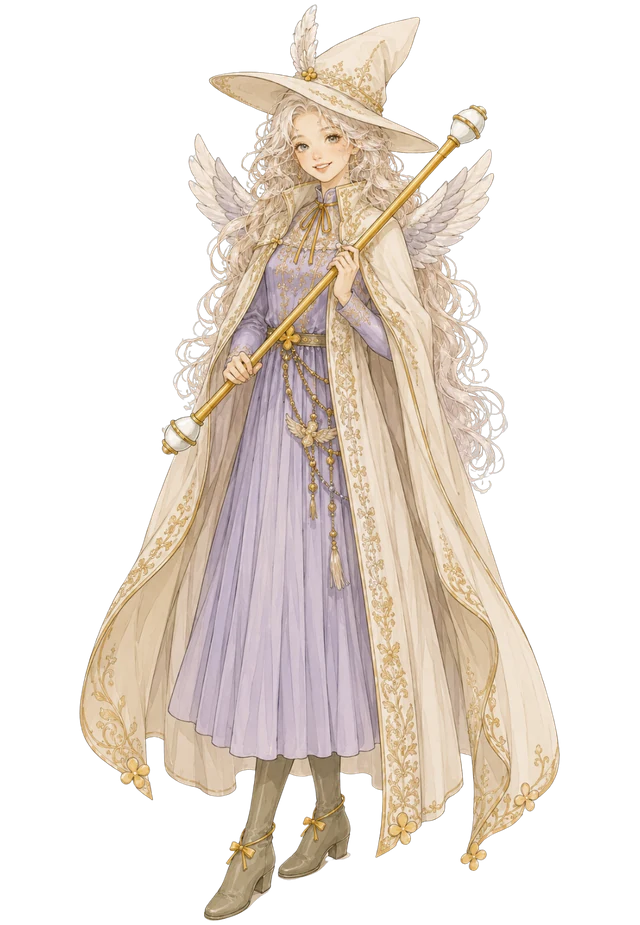
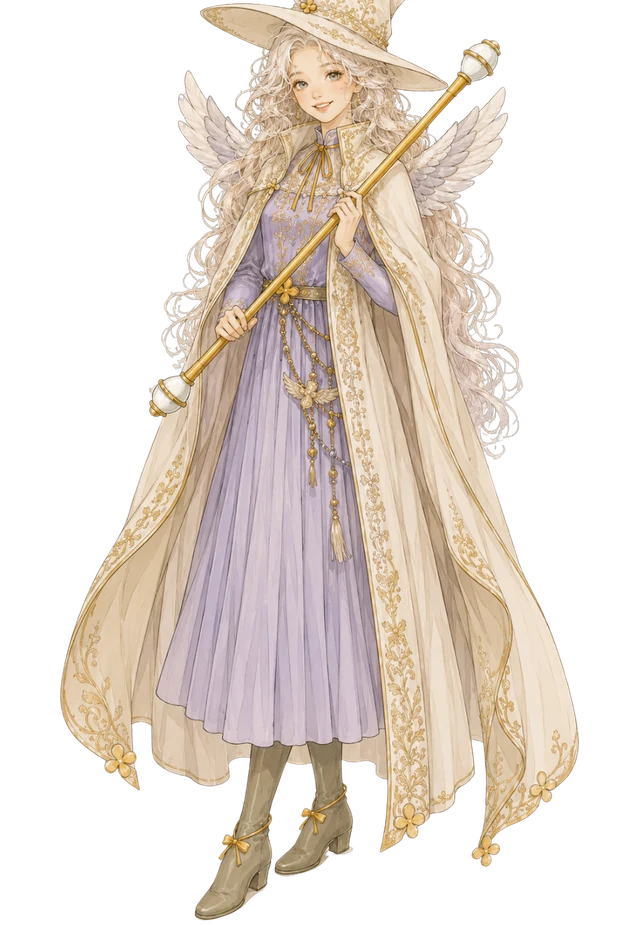
関係性カード全体をリンク化・会員登録の紹介導線削除・白い魔法使いの全身像を拡大 (#115)
* KINの関係性のカード全体をリンクにする

「詳しく見る」だけでなく、カードのどこを押しても紋章の詳細ページへ遷移するようにした。
リンクの中にリンクは置けないので、「詳しく見る」は見た目だけのspanにしている。

Claude-Session: https://claude.ai/code/session_01SHntxLNafWrjFyzX594gth

* 会員登録ページから紹介コード付き登録への導線を削除

/signup の「紹介コードをお持ちの方はこちらから登録」を削除した。/plans の同じ導線は
削除済みなので、/signup/referral へはURLを直接案内する運用になる。

Claude-Session: https://claude.ai/code/session_01SHntxLNafWrjFyzX594gth

* 白い魔法使い(女性)の全身像を1.08倍にして顔の高さを他と揃える

全身像は「帽子の先からつま先まで」を全員同じ高さに揃えているため、つば広帽子・翼・長い裾を
持つ白い魔法使い(女性)は顔が小さく低く見えていた(顔の位置が他より約18px下)。
生成スクリプトに紋章ごとの拡大設定(CUTOUT_ZOOM)を追加し、足元を動かさずに人物を拡大して
上側を切る。更新される画像は seal-13-cutout.webp の1枚だけで、他の79枚は内容が変わらない。

Claude-Session: https://claude.ai/code/session_01SHntxLNafWrjFyzX594gth

---------

diff --git a/pages/result.vue b/pages/result.vue
@@ -489,18 +489,23 @@ async function shareResult() {
       <section id="relations" class="section">
         <SectionDivider label="KINの関係性" eyebrow="周囲の紋章とのつながり" />
         <div class="relwrap">
-          <div v-for="r in relations" :key="r.label" class="relcard" :class="`relcard--${sealColor(r.seal.index)}`">
+          <!-- カード全体をリンクにする(「詳しく見る」だけでなくどこを押しても遷移する)。
+               「詳しく見る」はリンクの中に入れ子にできないので、見た目だけのspanにしている。 -->
+          <NuxtLink
+            v-for="r in relations"
+            :key="r.label"
+            :to="{ path: `/kin/${r.seal.index}`, query: { label: r.label, from: result.kin, name: result.name, birth: input.birthdate, gender: result.gender } }"
+            class="relcard relcard--link"
+            :class="`relcard--${sealColor(r.seal.index)}`"
+          >
             <div class="relcard__figure"><MayaBust :seal-index="r.seal.index" :alt="r.seal.name" :gender="result.gender" /></div>
             <div class="relcard__body">
               <span class="relcard__label">{{ r.label }}</span>
               <h3 class="font-display relcard__name">{{ r.seal.name }}</h3>
               <p class="relcard__desc">{{ RELATION_DESCRIPTION[r.label] }}</p>
-              <NuxtLink
-                :to="{ path: `/kin/${r.seal.index}`, query: { label: r.label, from: result.kin, name: result.name, birth: input.birthdate, gender: result.gender } }"
-                class="relcard__cta"
-              ><span class="relcard__cta-icon"><svg><use href="#i-search" /></svg></span>詳しく見る</NuxtLink>
+              <span class="relcard__cta"><span class="relcard__cta-icon"><svg><use href="#i-search" /></svg></span>詳しく見る</span>
             </div>
-          </div>
+          </NuxtLink>
         </div>
       </section>
 

diff --git a/assets/css/paper-theme.css b/assets/css/paper-theme.css
@@ -489,6 +489,13 @@ html, body { overflow-x: hidden; overscroll-behavior-x: none; }
 .relcard__cta { display: inline-flex; align-items: center; gap: 8px; margin-top: 14px; padding: 4px 16px 4px 4px; border-radius: 999px; background: var(--paper); border: 1px solid var(--gold-line-soft); box-shadow: var(--shadow); font-size: 12px; font-weight: 700; color: var(--gold-deep); letter-spacing: .02em; }
 .relcard__cta-icon { position: relative; display: flex; align-items: center; justify-content: center; width: 26px; height: 26px; border-radius: 50%; border: 1px solid var(--gold-line-soft); background: var(--paper-panel-2); flex: none; color: var(--gold-deep); }
 .relcard__cta-icon svg { width: 14px; height: 14px; }
+/* カード全体がリンク(pages/result.vue)。リンク既定の下線と文字色を打ち消し、押せることが分かるよう
+   ホバーで少し持ち上げ、「詳しく見る」を強調する。 */
+.relcard--link { color: inherit; text-decoration: none; cursor: pointer; transition: transform .15s ease, box-shadow .15s ease; }
+.relcard--link:hover { transform: translateY(-2px); box-shadow: 0 18px 32px -18px rgba(60, 42, 10, .45); }
+.relcard--link:hover .relcard__cta { border-color: var(--gold); }
+.relcard--link:focus-visible { outline: 2px solid var(--gold-deep); outline-offset: 3px; }
+@media (prefers-reduced-motion: reduce) { .relcard--link, .relcard--link:hover { transition: none; transform: none; } }
 @media (max-width: 560px) {
   /* Extra breathing room below the section title, beyond .section__title's own margin-bottom. */
   .relwrap { margin-top: 14px; }

diff --git a/pages/signup/index.vue b/pages/signup/index.vue
@@ -1,15 +1,10 @@
 <script setup lang="ts">
-import { buildSignupLink } from '~/utils/signupLink'
-
 // 通常の会員登録。登録すると無料会員になる。
 // 紹介コードでの登録は pages/signup/referral.vue に分けた(そちらはチーム所属 = チーム会員)。
+// このページから /signup/referral への導線は置かない(要望により 2026-09-17 に削除。URL を直接案内する運用)。
 // フォームの状態と送信処理は composables/useSignupForm.ts に共通化している。
-const route = useRoute()
 const form = useSignupForm()
 const { submitting, errorMessage, loginLink } = form
-
-// 紹介コード付き登録への導線。戻り先と入力済みの name/birth/gender を引き継ぐ。
-const referralLink = computed(() => buildSignupLink(form.redirect.value, route.query, '/signup/referral'))
 </script>
 
 <template>
@@ -31,10 +26,6 @@ const referralLink = computed(() => buildSignupLink(form.redirect.value, route.q
         </form>
 
         <p class="mt-4 text-center text-[12.5px]" style="color: var(--ink-faint);">
-          紹介コードをお持ちの方は
-          <NuxtLink :to="referralLink" class="hover:underline" style="color: var(--gold-deep);">こちらから登録</NuxtLink>
-        </p>
-        <p class="mt-2 text-center text-[12.5px]" style="color: var(--ink-faint);">
           すでに会員登録済みの方は
           <NuxtLink :to="loginLink" class="hover:underline" style="color: var(--gold-deep);">こちらからログイン</NuxtLink>
         </p>

diff --git a/scripts/generateSealCutouts.py b/scripts/generateSealCutouts.py
@@ -63,6 +63,27 @@ PAD = 6
 # 264 CSS px × DPR3 = 792px)とほぼ一致しているので縮小しない。
 MAX_CUTOUT_WIDTH = 640
 
+# 全身像(cutout)は「帽子の先からつま先まで」を全員同じ高さに揃えているため、頭の上に大きな
+# 装飾があるキャラクターほど、顔が小さく・低く見える(2026-09-21 報告: 白い魔法使い(女性))。
+# 揃えているのは外形なので、絵そのものの構成に起因する差はこの仕組みでは吸収できない。
+# そこで、該当するキャラクターだけ人物を拡大し、枠からはみ出した上側(装飾側)を切って
+# 同じ寸法に戻す。足元は動かさない(下寄せで表示しているため、動かすと並んだときにずれる)。
+# キーは (sealIndex, suffix)。'' が女性、'-male' が男性。
+# 1.08 は白い魔法使い(女性)の顔の高さが他のキャラクターと揃う値(帽子はほぼ切れない)。
+CUTOUT_ZOOM = {
+    (13, ''): 1.08,  # 白い魔法使い(女性) — つば広帽子・翼・長い裾で人物が小さく描かれている
+}
+
+
+def zoom_cutout(im: Image.Image, zoom: float) -> Image.Image:
+    if zoom == 1:
+        return im
+    w, h = im.size
+    big = im.resize((round(w * zoom), round(h * zoom)), Image.LANCZOS)
+    left = (big.width - w) // 2
+    top = big.height - h  # 足元を残し、上(装飾側)を切る
+    return big.crop((left, top, left + w, top + h))
+
 
 def limit_width(im: Image.Image, max_w: int) -> Image.Image:
     if im.width <= max_w:
@@ -185,6 +206,7 @@ def main():
         print(f'[{seal_index:2d}]{suffix or " (female)"} {name}')
 
         full = pad_to_ar(full, target_cutout_ar)
+        full = zoom_cutout(full, CUTOUT_ZOOM.get((seal_index, suffix), 1))
         full_path = os.path.join(OUT_DIR, f'seal-{seal_index}-cutout{suffix}.webp')
         limit_width(full, MAX_CUTOUT_WIDTH).save(full_path, 'WEBP', quality=88, method=6)
 

diff --git a/CLAUDE.md b/CLAUDE.md
@@ -290,7 +290,7 @@ After a successful redemption `/account` always navigates somewhere: the `redire
 Every LockedVeil's 「続きを購入する」 goes to [pages/plans.vue](pages/plans.vue) regardless of sign-in state, via
 [composables/usePlansLink.ts](composables/usePlansLink.ts): `/plans?kin=N&redirect=<current page>&name&birth&gender`.
 `/plans` shows 有料会員 ￥5,500/月(税込), highlighted as おすすめ, and この記事のみ ￥550(税込) for `kin` (hidden
-when there is no `kin`), plus a login link for signed-out visitors (no referral-signup link here — that lives on `/signup`). **Until payment ships both buttons do the
+when there is no `kin`), plus a login link for signed-out visitors (no link to `/signup/referral` here or on `/signup` — that page is reached only by its URL, which is shared with referred members directly). **Until payment ships both buttons do the
 same thing**: signed out → `/signup` (with `redirect` and the prefill query), signed in → `redirect`.
 `planAction()` is the single place to switch to Stripe Checkout.
 
